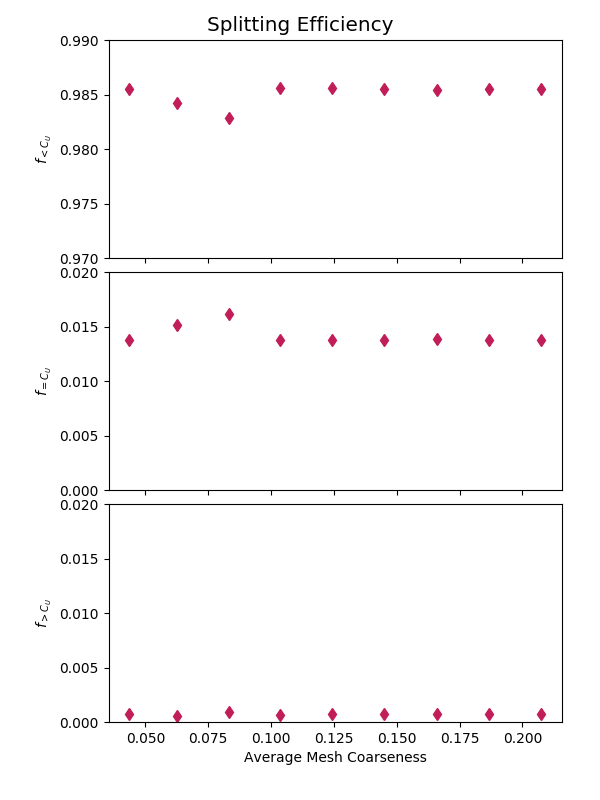
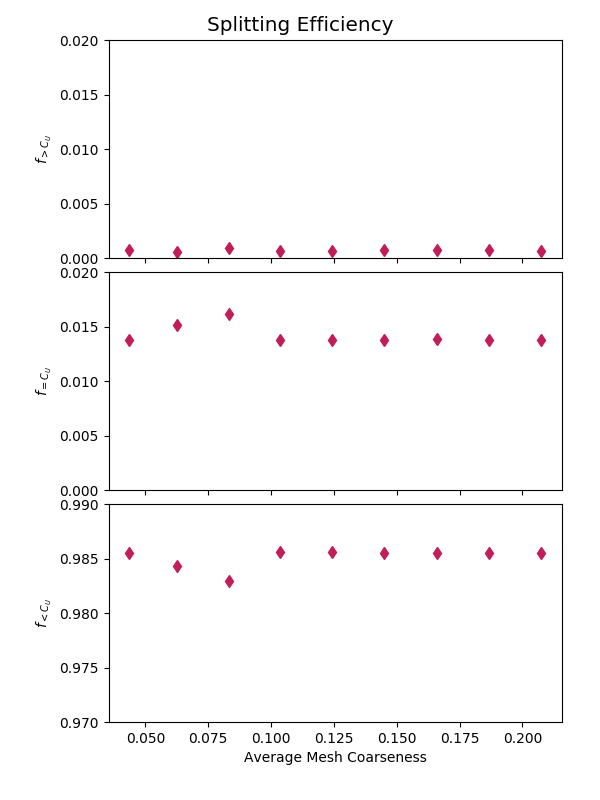
flip order of splitting efficiency plots

diff --git a/performance-analysis/analysis/plot_tally_data.py b/performance-analysis/analysis/plot_tally_data.py
@@ -333,37 +333,37 @@ def plot_ww_efficiency(df_output, refinement, df_measure=None):
         cwwm_lt = np.full(2, float(df_cwwm['Splits < C_u']))
         cwwm_eq = np.full(2, float(df_cwwm['Splits = C_u']))
         cwwm_gt = np.full(2, float(df_cwwm['Splits > C_u']))
-        ax[0].plot([xmin, xmax], cwwm_lt, marker='',
+        ax[2].plot([xmin, xmax], cwwm_lt, marker='',
                    ls=':', color=colors['cwwm'], label='CWWM')
         ax[1].plot([xmin, xmax], cwwm_eq, marker='',
                    ls=':', color=colors['cwwm'])
-        ax[2].plot([xmin, xmax], cwwm_gt, marker='',
+        ax[0].plot([xmin, xmax], cwwm_gt, marker='',
                    ls=':', color=colors['cwwm'])
 
-    ax[0].plot(df_wwig[measurement], df_wwig['Splits < C_u'],
+    ax[2].plot(df_wwig[measurement], df_wwig['Splits < C_u'],
                marker=markers['wwig'], ls='', label='WWIG',
                color=colors['wwig'])
-    ax[0].set_ylabel('$f_{< C_U}$')
+    ax[2].set_ylabel('$f_{< C_U}$')
 
     ax[1].plot(df_wwig[measurement], df_wwig['Splits = C_u'],
                marker=markers['wwig'], ls='', label='',
                color=colors['wwig'])
     ax[1].set_ylabel('$f_{= C_U}$')
 
-    ax[2].plot(df_wwig[measurement], df_wwig['Splits > C_u'],
+    ax[0].plot(df_wwig[measurement], df_wwig['Splits > C_u'],
                marker=markers['wwig'], ls='', label='',
                color=colors['wwig'])
     ax[2].set_xlabel(xlabel)
-    ax[2].set_ylabel('$f_{> C_U}$')
+    ax[0].set_ylabel('$f_{> C_U}$')
 
     if df_measure is None:
         fig.legend(bbox_to_anchor=(0.5, 0), loc='lower center', ncol=2,
                    fontsize='x-small')
 
     if df_measure is not None:
-        ax[0].set_ylim(0.97, 0.99)
+        ax[2].set_ylim(0.97, 0.99)
         ax[1].set_ylim(0.0, 0.02)
-        ax[2].set_ylim(0.0, 0.02)
+        ax[0].set_ylim(0.0, 0.02)
 
     # labels
     title = 'Splitting Efficiency'
